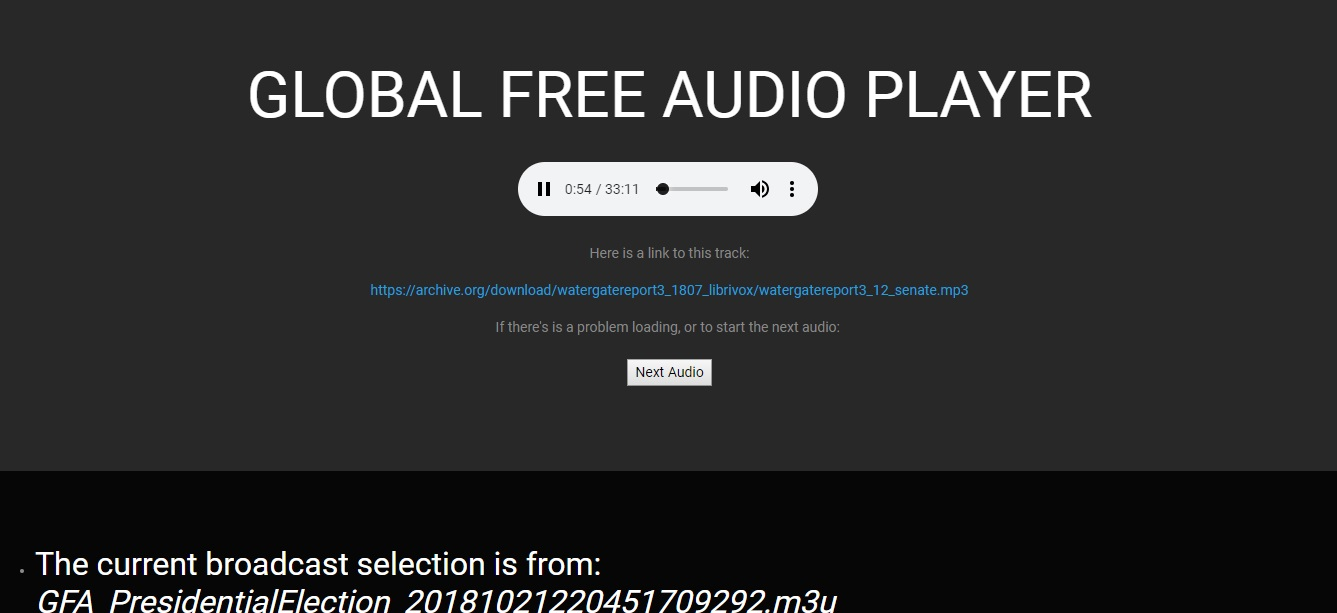
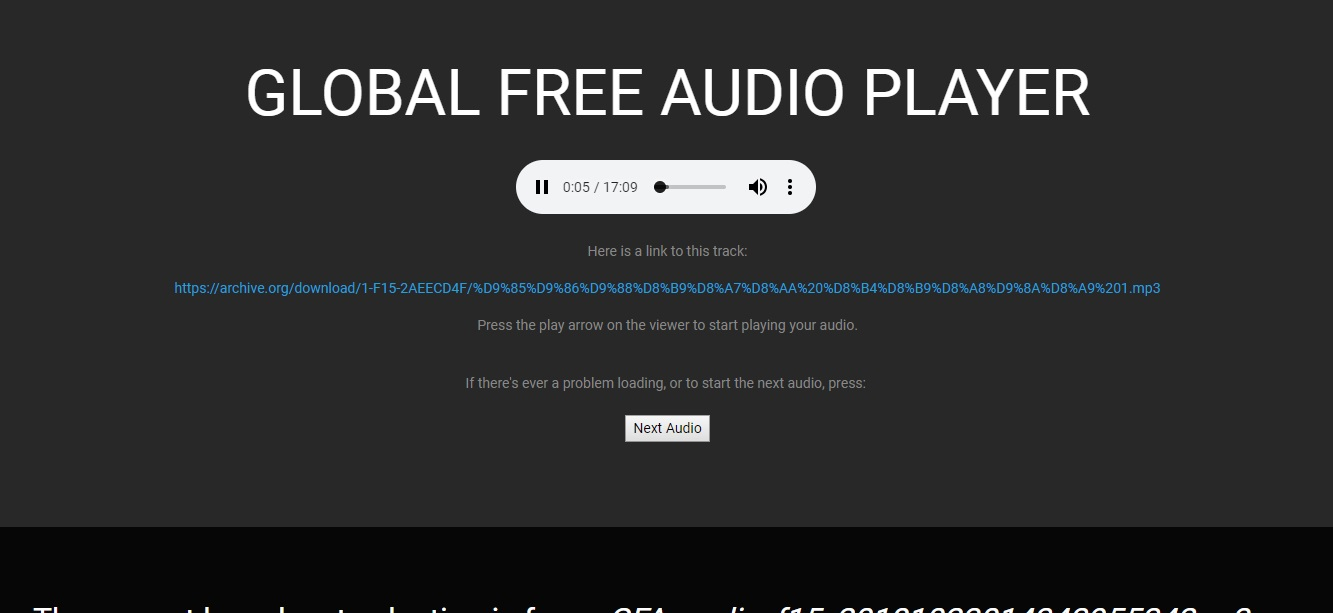
Tweaks and screenshots.

diff --git a/templates/newsplayer.html b/templates/newsplayer.html
@@ -12,12 +12,13 @@
 
         <h1>GLOBAL FREE AUDIO PLAYER</h1>
         <br>
-            <audio controls autoplay = "True" loop =  "True" source src = {{toplay}} type = "audio/mp3">Your browser does not support embedded audio</audio>
+            <audio controls source src = {{toplay}} type = "audio/mp3">Your browser does not support embedded audio</audio>
                 <br><br>
 <p>Here is a link to this track:</p>
 <p><a href = {{toplay}}>{{toplay}}</a></p>
-
-<form action = "/newsplayer">If there's is a problem loading, or to start the next audio:
+<p>Press the play arrow on the viewer to start playing your audio.</p>
+<br>
+<form action = "/newsplayer">If there's ever a problem loading, or to start the next audio, press:
 <br><br>
 <input type="submit" value = "Next Audio" />
 </form>
@@ -30,7 +31,7 @@
             <ul>
 <li><h4>The current broadcast selection is from: <em>{{ur}}</em></h></li>
 <li><h5>This is number {{item}} of {{length}} items in the playlist.</h5></li>
-<li><h5>This randomly chosen audio will repeat endlessly, until you choose another track from your playlist by pressing 'Next Audio'.</h5> </li>
+<li><h5>You can choose another track from your playlist by pressing 'Next Audio'.</h5> </li>
 <li><h5>This randomized approach allows users to experience different views of a chosen subject.</h5></li>
 </ul>
 </div>

diff --git a/GFAwFront.py b/GFAwFront.py
@@ -39,7 +39,7 @@ def index():
                 return render_template('index.html', error = error)
             else:
                 timestamp = session['timestamp']
-                session['playlist'] = "GFA_" + sear + sear2 + "_" + timestamp + ".m3u"
+                session['playlist'] = "GFA_audio_" + sear + sear2 + "_" + timestamp + ".m3u"
                 content = []
                 playlist = session['playlist']
                 infile = open(playlist, "r")
@@ -55,7 +55,17 @@ def index():
                 return render_template('newsplayer.html', toplay = atrack, ur = playlist, length = length, item = item)
 
         else:
-            return render_template('results.html', sear = sear, sear2 = sear2)
+            right_now = datetime.datetime.now().isoformat()
+            list = []
+            for i in right_now:
+                if i.isnumeric():
+                    list.append(i)
+        tim = "".join(list)
+        linkslist = "GFA_links_" + sear + sear2 + "_" + tim + ".txt"
+        outfile = open(linkslist, "w")
+        outfile.close()
+        ans1 = "audio"
+        return render_template('results.html', sear = sear, sear2 = sear2)
 
 #This code sets up the player page. It takes a random item from a list and cues it up in the player, along with some additional information and functionality.
 

diff --git a/GFAw.py b/GFAw.py
@@ -126,7 +126,7 @@ def write_list_to_file(outname, lstname, typ, srch, timestamp):
         wrtstr = ".txt"
     if typ == "j":
         wrtstr = ".txt"
-    outnm = "GFA_" + srch + "_" + timestamp + wrtstr
+    outnm = "GFA_audio_" + srch + "_" + timestamp + wrtstr
 
     outfile = open(outnm, "w")
 
@@ -256,13 +256,3 @@ def data_process(ans1, timestamp, typ, sear, sear2):
     return error
 
 ## THE GHOST OF THE SHADOW ##
-
-
-
-
-
-
-
-
-
-
